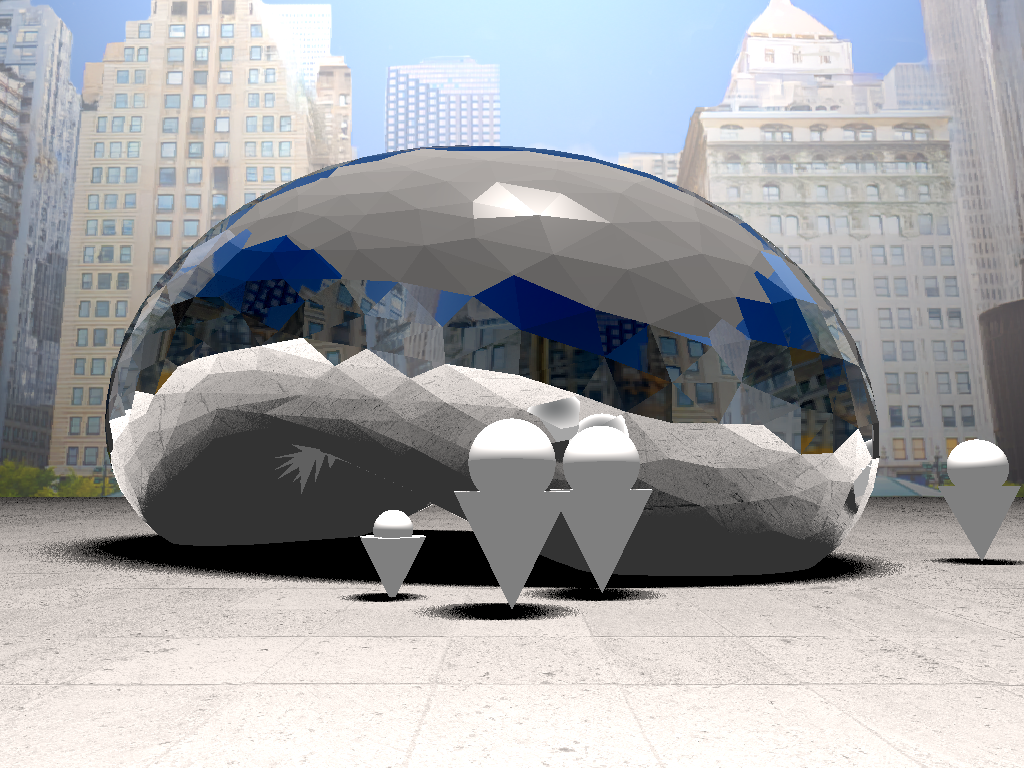
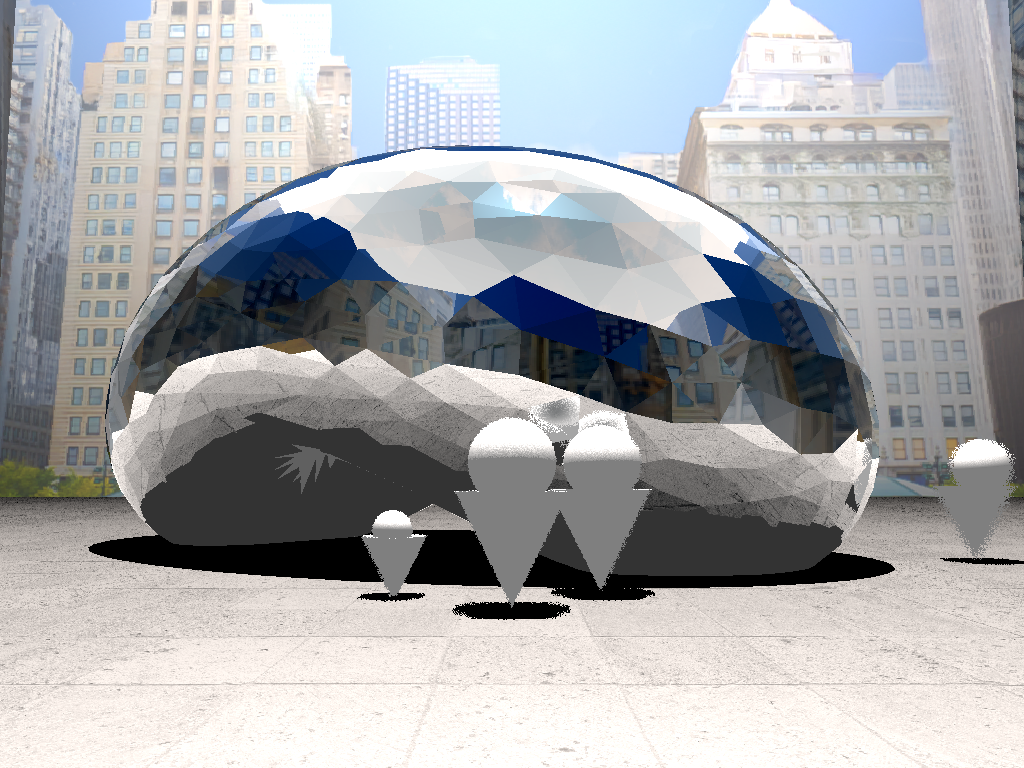
added sky

diff --git a/src/shapes/sphere.cpp b/src/shapes/sphere.cpp
@@ -11,7 +11,7 @@ Sphere::Sphere(RenderShapeData shape, glm::vec4 wEye, glm::vec4 wDirection){
 std::optional<Intersection> Sphere::checkIntersection(float time) {
     glm::vec4 newCenter = centerStart + (centerEnd - centerStart) * time;
     // calculate relative camera position for the intersection after the sphere moves
-    glm::vec4 newPos = p/* - newCenter*/;
+    glm::vec4 newPos = p - newCenter;
 
     Intersection intr = {.t = float(INT_MAX), .u = float(INT_MAX), .v = float(INT_MAX)};
 

diff --git a/src/shapes/cone.cpp b/src/shapes/cone.cpp
@@ -11,7 +11,7 @@ Cone::Cone(RenderShapeData shape, glm::vec4 wEye, glm::vec4 wDirection){
 std::optional<Intersection> Cone::checkIntersection(float time){
     glm::vec4 newCenter = centerStart + (centerEnd - centerStart) * time;
     // calculate relative camera position for the intersection after the sphere moves
-    // p -= newCenter;
+    p -= newCenter;
 
     Intersection intr = {.t = float(INT_MAX), .u = float(INT_MAX), .v = float(INT_MAX)};
     float t1;

diff --git a/src/utils/phongillumination.cpp b/src/utils/phongillumination.cpp
@@ -45,7 +45,7 @@ glm::vec4 PhongIllumination::phongLogic(glm::vec4  position,
                                         int recur,
                                         float occlusion) {
 
-    bool isSoftShadows = true;
+    bool isSoftShadows = false;
 
     normal = glm::normalize(normal);
     glm::vec3 iRay = {incidentRay[0], incidentRay[1], incidentRay[2]};

diff --git a/src/raytracer/raytracer.h b/src/raytracer/raytracer.h
@@ -56,7 +56,7 @@ private:
     RGBA toRGBA(const glm::vec4 &illumination);
 
     int maxSamples = 1;
-    float sampleThreshold = 1.1f;
+    float sampleThreshold = 1.f;
 };
 
 struct Intersection {
